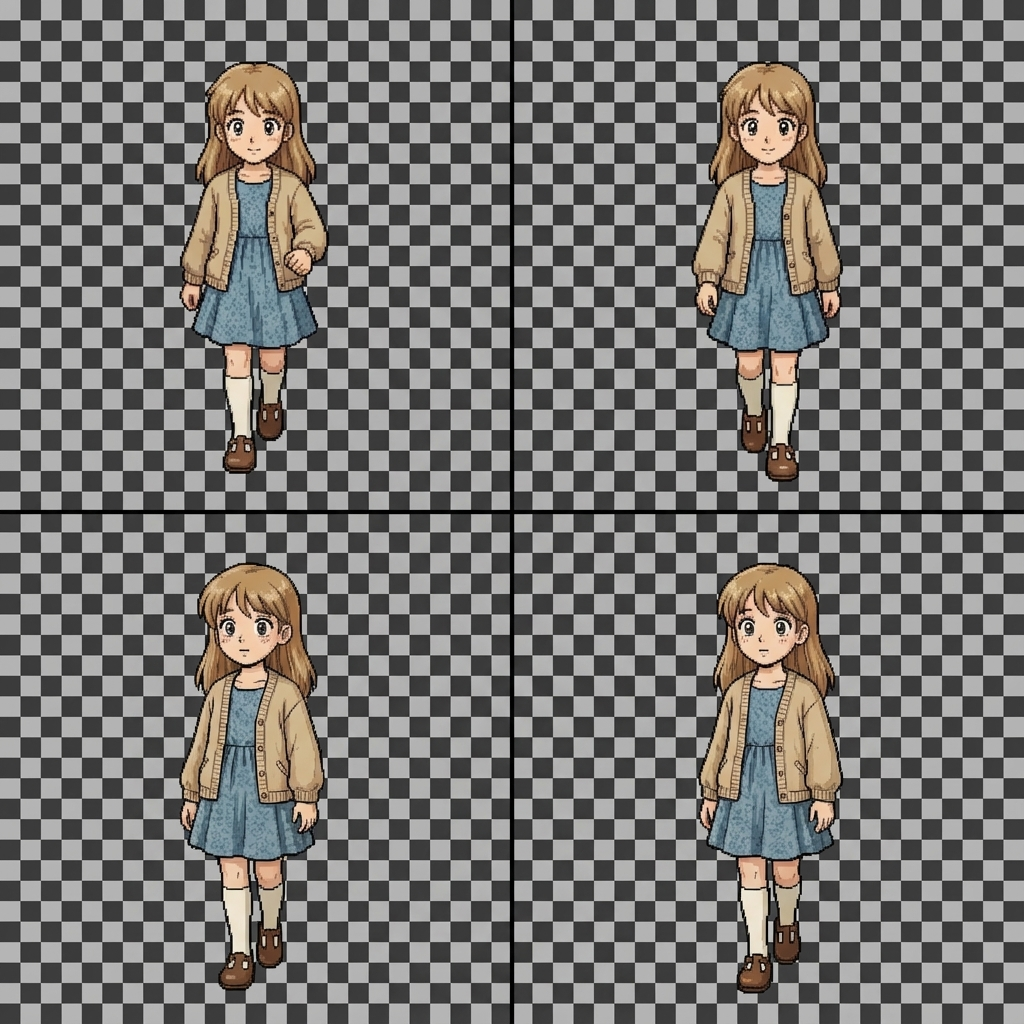
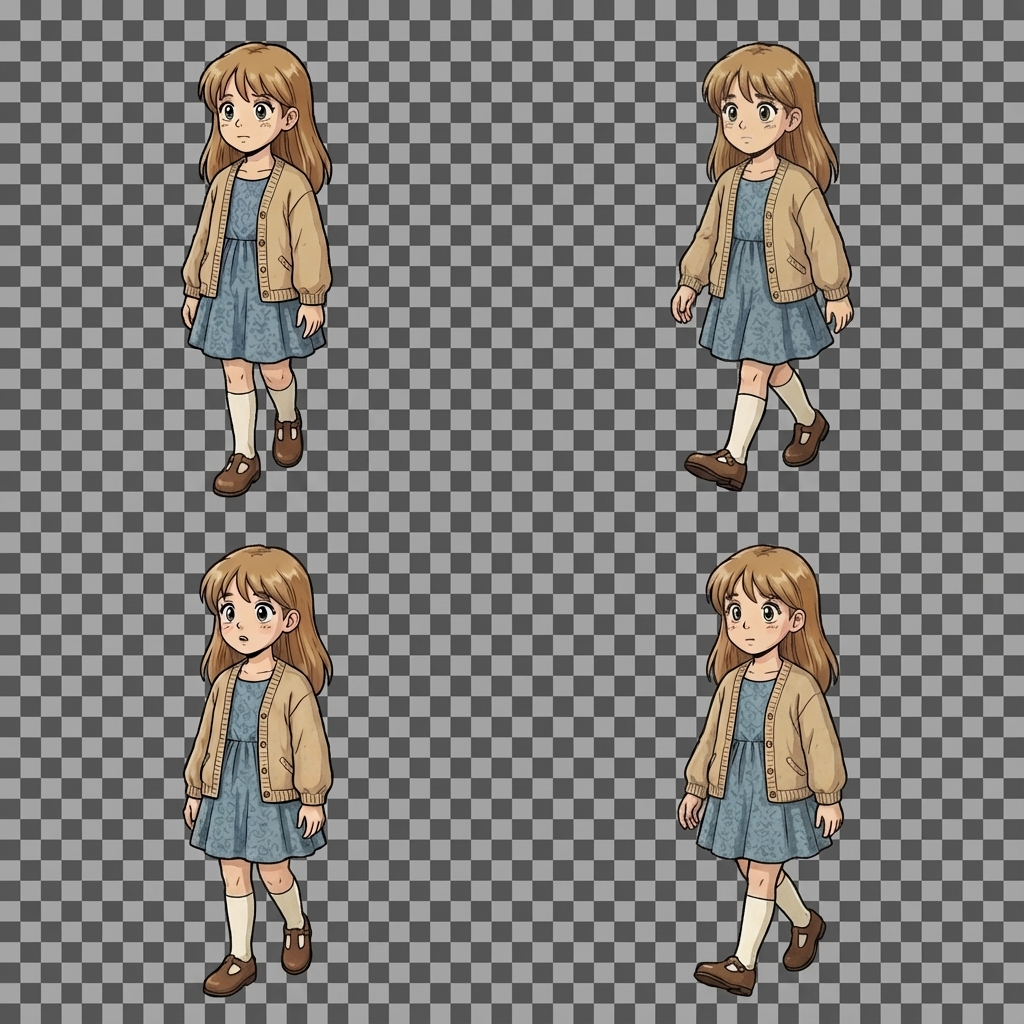
feat: enhance image generation with support for multiple reference images

diff --git a/tools/asset-designer/src/lib/server/gemini.ts b/tools/asset-designer/src/lib/server/gemini.ts
@@ -6,6 +6,7 @@ const ai = env.GEMINI_API_KEY ? new GoogleGenAI({ apiKey: env.GEMINI_API_KEY }) 
 export interface GenerateImageOptions {
 	prompt: string;
 	referenceImage?: Buffer; // Optional reference image
+	referenceImages?: Buffer[]; // Optional multiple reference images
 }
 
 /**
@@ -22,8 +23,18 @@ export async function generateImage(
 		// Build content parts
 		const contentParts: any[] = [{ text: options.prompt }];
 
-		// Add reference image if provided
-		if (options.referenceImage) {
+		// Add reference images if provided
+		if (options.referenceImages && options.referenceImages.length > 0) {
+			for (const refImage of options.referenceImages) {
+				contentParts.push({
+					inlineData: {
+						data: refImage.toString('base64'),
+						mimeType: 'image/png'
+					}
+				});
+			}
+		} else if (options.referenceImage) {
+			// Backward compatibility: single reference image
 			contentParts.push({
 				inlineData: {
 					data: options.referenceImage.toString('base64'),
@@ -95,7 +106,12 @@ export function buildSpeechPrompt(
 export function buildFramePrompt(
 	characterDescription: string,
 	baseFramesPrompt: string,
-	framePrompt: string
+	framePrompt: string,
+	hasIdleDownReference: boolean = false
 ): string {
-	return `${baseFramesPrompt}\n\n${framePrompt}\n\nCharacter Description:\n${characterDescription}\n\nPlease generate a character sprite frame following the style guidelines and pose requirements above.\n\nReference the provided concept image for the character's appearance, ensuring consistency in design, colors, and features across all frames.`;
+	const referenceInstructions = hasIdleDownReference
+		? "Reference the provided concept image for the character's appearance and the idle-down frame for consistent style, proportions, and design across all frames."
+		: "Reference the provided concept image for the character's appearance, ensuring consistency in design, colors, and features across all frames.";
+
+	return `${baseFramesPrompt}\n\n${framePrompt}\n\nCharacter Description:\n${characterDescription}\n\nPlease generate a character sprite frame following the style guidelines and pose requirements above.\n\n${referenceInstructions}`;
 }

diff --git a/tools/asset-designer/src/routes/actors/[actorId]/+server.ts b/tools/asset-designer/src/routes/actors/[actorId]/+server.ts
@@ -142,22 +142,48 @@ export async function POST({ request, params }) {
 			}
 
 			// Try to load concept image as reference
-			let conceptImage: Buffer | undefined;
+			const ASSETS_DIR = path.resolve(process.cwd(), '../../assets');
+			const referenceImages: Buffer[] = [];
+
 			try {
-				const ASSETS_DIR = path.resolve(process.cwd(), '../../assets');
 				const conceptPath = path.join(ASSETS_DIR, 'actors', params.actorId, 'concept.png');
-				conceptImage = await fs.readFile(conceptPath);
+				const conceptImage = await fs.readFile(conceptPath);
+				referenceImages.push(conceptImage);
 			} catch {
-				// Concept image not available, continue without it
+				// Concept image not available
+			}
+
+			// For frames other than idle-down, also use idle-down as reference
+			let hasIdleDownReference = false;
+			if (frameType !== 'idle-down') {
+				try {
+					const idleDownPath = path.join(
+						ASSETS_DIR,
+						'actors',
+						params.actorId,
+						'frames',
+						'idle-down.png'
+					);
+					const idleDownImage = await fs.readFile(idleDownPath);
+					referenceImages.push(idleDownImage);
+					hasIdleDownReference = true;
+				} catch {
+					// Idle-down frame not available yet
+				}
 			}
 
 			// Build prompt
-			const prompt = buildFramePrompt(actor.content, baseFrames.content, frameSpec.content);
+			const prompt = buildFramePrompt(
+				actor.content,
+				baseFrames.content,
+				frameSpec.content,
+				hasIdleDownReference
+			);
 
-			// Generate image with optional concept reference
+			// Generate image with reference images
 			const result = await generateImage({
 				prompt,
-				referenceImage: conceptImage
+				referenceImages: referenceImages.length > 0 ? referenceImages : undefined
 			});
 
 			if (!result) {
